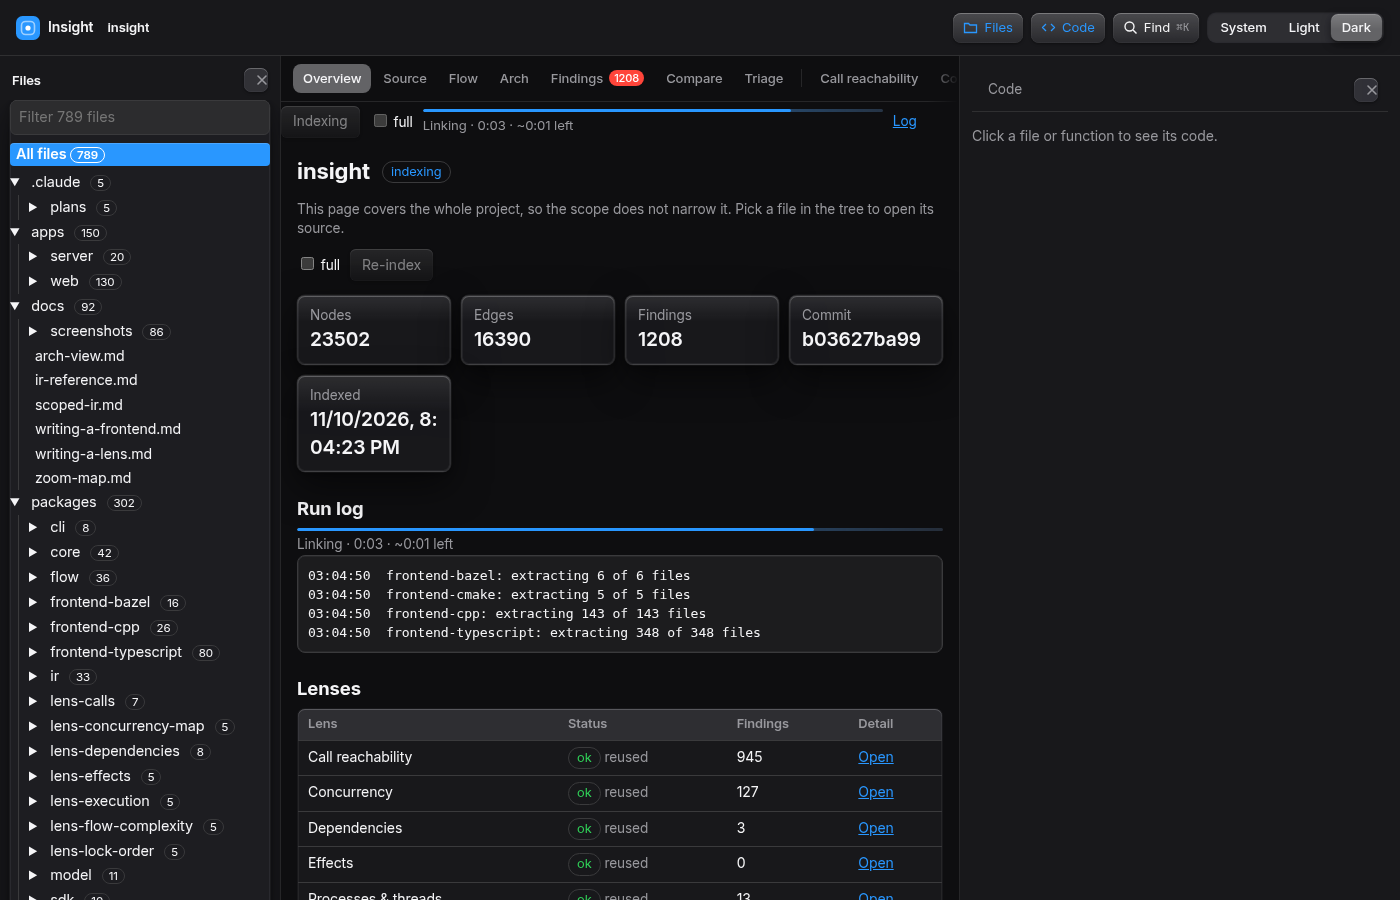
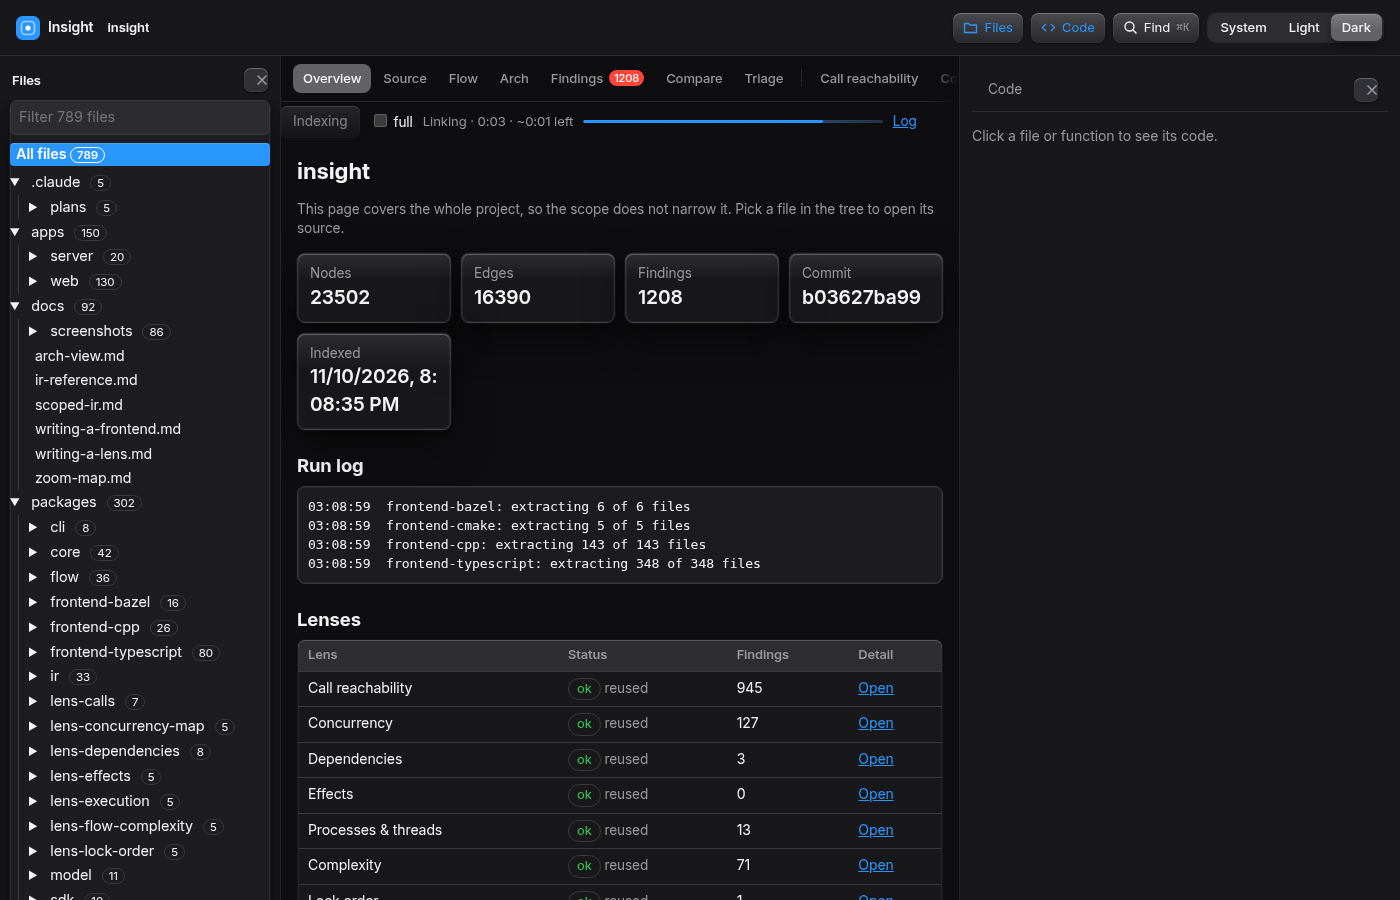
web: index strip polish (done contrast, single control, alignment)
- Done state stays opaque for its 2 s, with the accent bar at 100% and
  normal text, then fades out over the last 300 ms. Reduced motion
  snaps it off.
- The Overview drops its own Re-index row, full checkbox and progress
  bar and its duplicate status badge. The strip is the single control;
  the run log stays and reads the shared hook's replayed lines.
- The strip's label and bar sit on one line, centred with the Index
  button and the full label.

Changed region(s): [[0.215, 0.28, 0.6757, 1.0], [0.3071, 0.0933, 0.6143, 0.1556], [0.2764, 0.1867, 0.3071, 0.2178]]

diff --git a/apps/web/src/pages/ProjectOverview.tsx b/apps/web/src/pages/ProjectOverview.tsx
@@ -2,15 +2,12 @@ import { useCallback, useEffect, useMemo, useState } from "react";
 import { api, IS_DEMO, type FindingRow, type Overview } from "../api";
 import { useIndexProgress } from "../useIndexProgress";
 import { hrefLens } from "../router";
-import { IndexProgress } from "../components/IndexProgress";
 
-/** The overview tab: run controls, counts, lenses, coverage and findings for the whole project. */
+/** The overview tab: counts, the run log, lenses, coverage and findings for the whole project. The strip above the tabs is the run control. */
 export function ProjectOverview({ id }: { id: string }) {
   const [overview, setOverview] = useState<Overview | null>(null);
   const [findings, setFindings] = useState<FindingRow[]>([]);
   const [error, setError] = useState<string | null>(null);
-  const [full, setFull] = useState(false);
-  const [busy, setBusy] = useState(false);
 
   const load = useCallback(async () => {
     try {
@@ -31,7 +28,6 @@ export function ProjectOverview({ id }: { id: string }) {
   const run = useIndexProgress(id, overview?.project.progress, (event) => {
     if (event.type === "done" || event.type === "failed" || event.type === "status") void load();
   });
-  const running = run.running || overview?.project.status === "indexing";
 
   const grouped = useMemo(() => {
     const byLens = new Map<string, FindingRow[]>();
@@ -47,30 +43,8 @@ export function ProjectOverview({ id }: { id: string }) {
   if (!overview) return <p className="muted">Loading</p>;
   const p = overview.project;
 
-  const reindex = async () => {
-    setBusy(true);
-    try {
-      await api.reindex(id, full);
-      await load();
-    } catch (e) {
-      setError((e as Error).message);
-    } finally {
-      setBusy(false);
-    }
-  };
-
   return (
     <section>
-      {!IS_DEMO && (
-        <div className="actions">
-          <label className="check small">
-            <input type="checkbox" checked={full} onChange={(e) => setFull(e.target.checked)} /> full
-          </label>
-          <button type="button" onClick={() => void reindex()} disabled={busy || running}>
-            Re-index
-          </button>
-        </div>
-      )}
       {p.error && <p className="error" role="alert">Last run failed: {p.error}</p>}
       {error && <p className="error" role="alert">{error}</p>}
 
@@ -92,9 +66,8 @@ export function ProjectOverview({ id }: { id: string }) {
       {!IS_DEMO && (
         <>
           <h2>Run log</h2>
-          {running && <IndexProgress progress={run.progress} fraction={run.progress ? run.fraction : undefined} />}
           <pre className="log" aria-live="polite" data-testid="run-log">
-            {run.lines.length === 0 ? "No run since the server started. Re-index to see progress." : run.lines.join("\n")}
+            {run.lines.length === 0 ? "No run since the server started. Start one with Index above to see progress." : run.lines.join("\n")}
           </pre>
         </>
       )}

diff --git a/apps/web/src/styles.css b/apps/web/src/styles.css
@@ -937,8 +937,13 @@ a.btn.primary { background: linear-gradient(180deg, var(--gloss), transparent 52
 .idx-compact { margin-top: 6px; }
 .idx-strip { display: flex; align-items: center; gap: 10px; flex-wrap: wrap; min-height: 34px; padding: 4px 0 8px; font-size: 0.85rem; }
 .idx-strip-main { flex: 1 1 220px; min-width: 0; max-width: 460px; }
-.idx-strip .idx-label { font-size: 0.82rem; }
-.idx-strip.is-done .idx-fill { background: var(--ok); }
+/* One line: the label and the bar sit on the strip's centre line, level with the Index button's text. */
+.idx-strip .idx { flex-direction: row; align-items: center; gap: 10px; }
+.idx-strip .idx-label { order: -1; flex: 0 1 auto; font-size: 0.82rem; line-height: 1.3; }
+.idx-strip .idx-bar { flex: 1 1 auto; min-width: 48px; }
+/* Done: fully opaque for the 2 s it shows (DONE_MS in IndexStrip.tsx), with a fade over the last 300 ms before it returns to rest. */
+.idx-strip.is-done .idx-done { animation: idx-done-out 2000ms linear both; }
+@keyframes idx-done-out { 0%, 85% { opacity: 1; } 100% { opacity: 0; } }
 .idx-rest { animation: idx-fade 300ms ease; }
 .idx-first { display: flex; flex-direction: column; align-items: center; justify-content: center; gap: 14px; min-height: 240px; padding: 24px; text-align: center; }
 .idx-first .idx { width: min(440px, 100%); }
@@ -951,4 +956,5 @@ a.btn.primary { background: linear-gradient(180deg, var(--gloss), transparent 52
   .idx-fill { transition: none; }
   .idx-bar.is-uncounted::after { animation: none; transform: none; opacity: 0.5; }
   .idx-rest { animation: none; }
+  .idx-strip.is-done .idx-done { animation: none; }
 }

diff --git a/apps/web/test/indexProgressView.test.tsx b/apps/web/test/indexProgressView.test.tsx
@@ -110,6 +110,24 @@ describe("IndexStrip", () => {
   });
 });
 
+describe("IndexStrip polish", () => {
+  it("the done summary is normal text, not the muted rest colour", () => {
+    const html = renderToStaticMarkup(<IndexProgress fraction={1} label="Indexed · 23,502 nodes" />);
+    expect(html).toContain('class="idx-label small"');
+    expect(html).not.toContain("muted");
+  });
+
+  it("the Overview has no Re-index row or progress bar of its own, and the header badge is off that page", () => {
+    const overview = readFileSync(new URL("../src/pages/ProjectOverview.tsx", import.meta.url), "utf8");
+    expect(overview).not.toContain("Re-index");
+    expect(overview).not.toContain("components/IndexProgress");
+    expect(overview).not.toMatch(/<IndexProgress\b/);
+    expect(overview).toContain("Run log");
+    const workspace = readFileSync(new URL("../src/components/Workspace.tsx", import.meta.url), "utf8");
+    expect(workspace).toContain('content !== "overview" && <StatusBadge');
+  });
+});
+
 describe("FirstIndex", () => {
   it("names the project while its first run is under way", () => {
     const html = renderToStaticMarkup(

diff --git a/apps/web/src/components/IndexProgress.tsx b/apps/web/src/components/IndexProgress.tsx
@@ -67,7 +67,7 @@ export function IndexProgress({ progress, fraction, label, error, compact = fals
       >
         <span className="idx-fill" style={{ width: `${(f * 100).toFixed(1)}%` }} />
       </div>
-      <div className={`idx-label small ${error !== undefined ? "error" : "muted"}`} title={text}>
+      <div className={`idx-label small ${error !== undefined ? "error" : label !== undefined ? "" : "muted"}`.trim()} title={text}>
         {text}
       </div>
     </div>

diff --git a/apps/web/src/components/Workspace.tsx b/apps/web/src/components/Workspace.tsx
@@ -362,7 +362,7 @@ export function Workspace({ id, tab, scope, line, fn, roots = true, base, head, 
             <div className="sh-stage sh-page">
               <div className="sh-page-head">
                 <h1>{p.name}</h1>
-                <StatusBadge project={p} />
+                {content !== "overview" && <StatusBadge project={p} />}
               </div>
               {error && <p className="error" role="alert">{error}</p>}
               {listingError && (

diff --git a/apps/web/src/components/IndexStrip.tsx b/apps/web/src/components/IndexStrip.tsx
@@ -103,7 +103,7 @@ export function IndexStrip({ id, project, snapshot, run, onRequested }: IndexStr
           </button>
         </>
       ) : done ? (
-        <div className="idx-strip-main idx-rest">
+        <div className="idx-strip-main idx-done">
           <IndexProgress fraction={1} label={`Indexed · ${(snapshot?.nodes ?? 0).toLocaleString()} nodes`} />
         </div>
       ) : (
